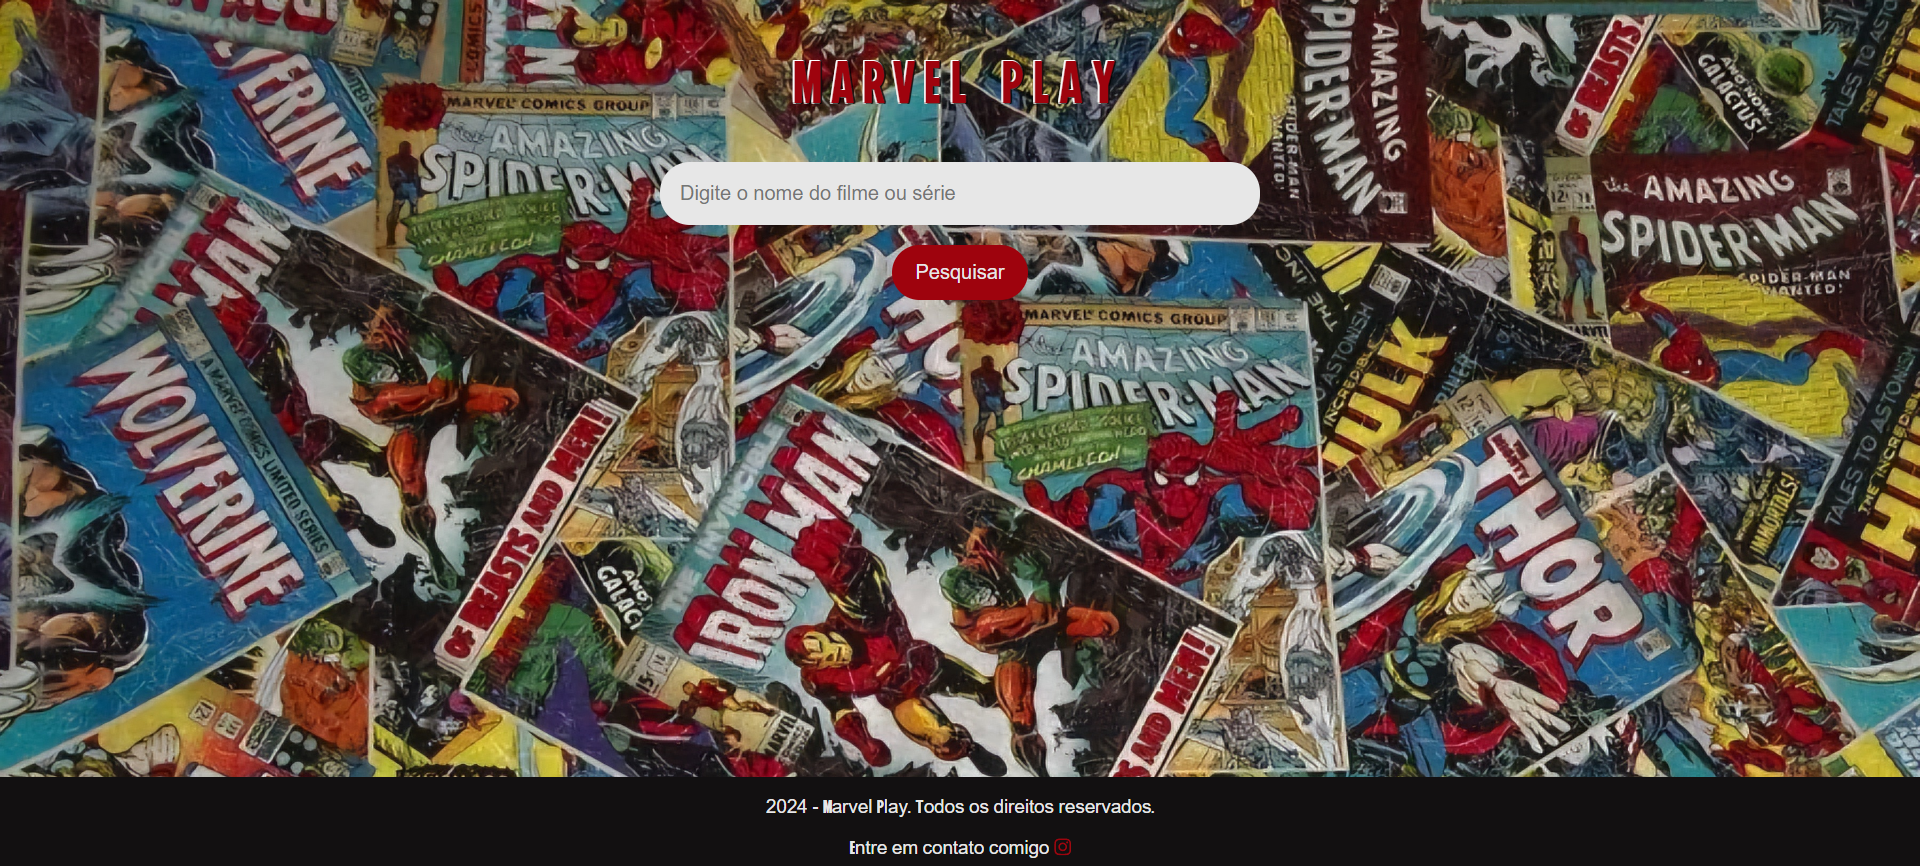
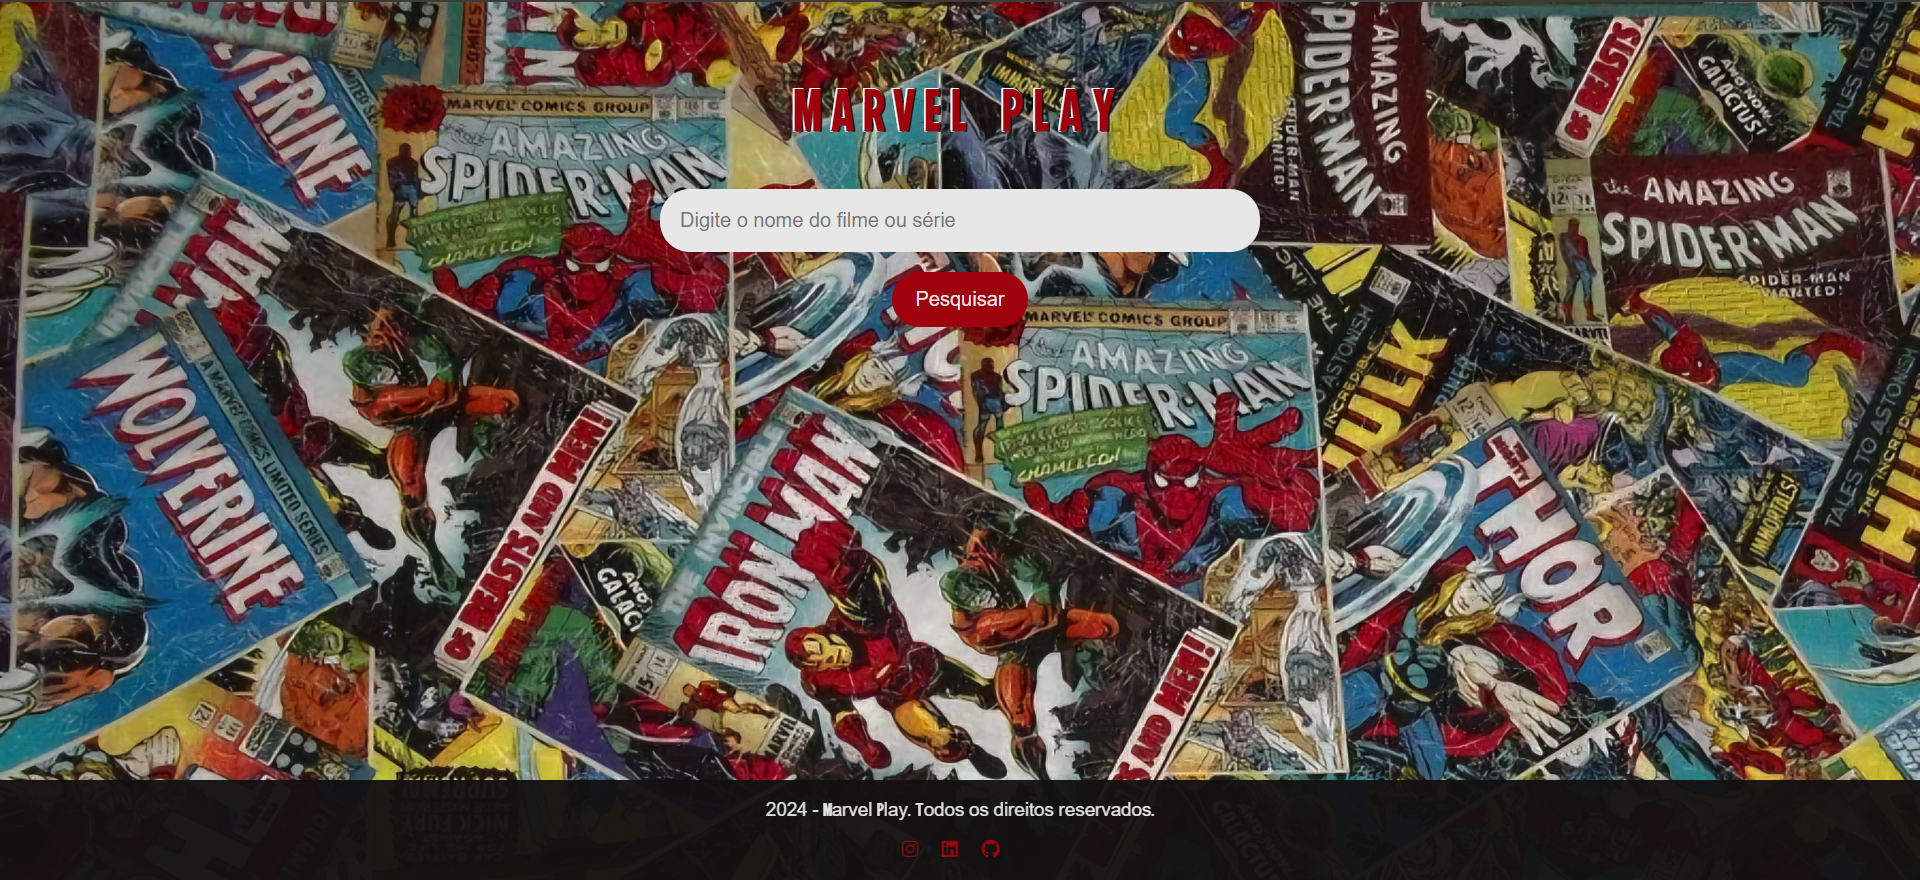
alteração na descrição e foto do site

diff --git a/readme.md b/readme.md
@@ -1,6 +1,6 @@
 #  Marvel Play
 
-Marvel Play é uma plataforma personalizada para encontrar seus filmes e séries favoritos da Marvel. Com uma interface intuitiva e resultados de pesquisa rápidos.
+Marvel Play é uma plataforma personalizada para encontrar seus filmes e séries favoritos da Marvel, incluindo os que não fazem parte do MCU. Com uma interface intuitiva e resultados de pesquisa rápidos.
 
 ![Imagem do site](./src/images/site.png)
 
